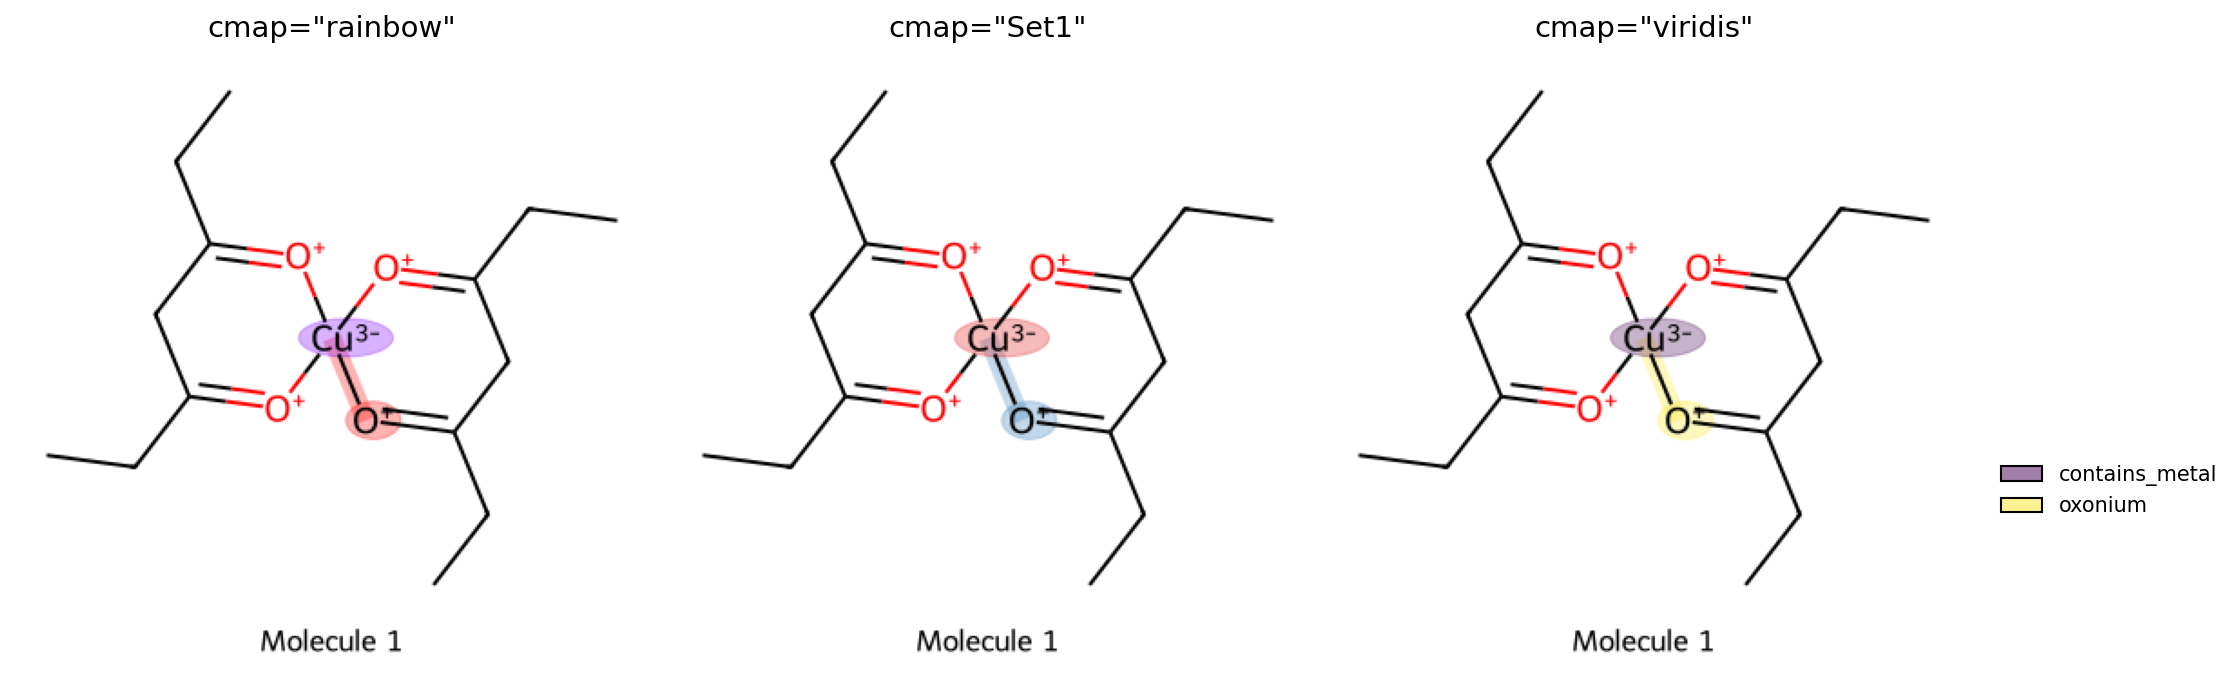
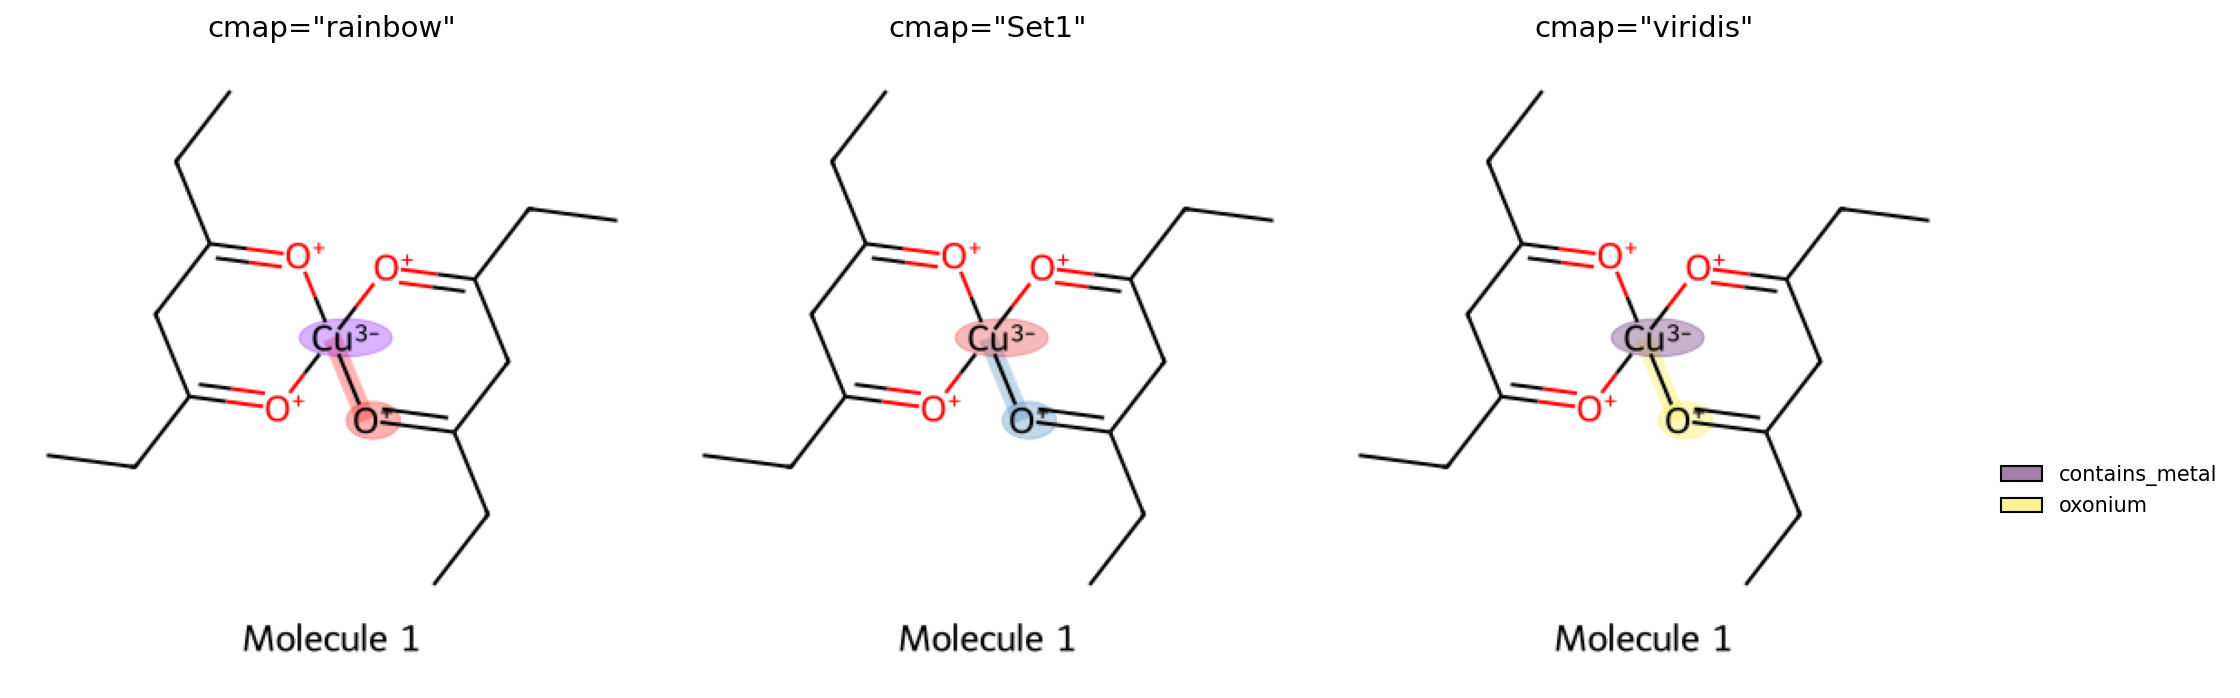
update example figures using mol font_size to use label_font_size instead

Changed region(s): [[0.6875, 0.9026, 0.7812, 0.9327], [0.4062, 0.9026, 0.5, 0.9327], [0.0938, 0.9026, 0.1875, 0.9327]]

diff --git a/docs/generate_figures.py b/docs/generate_figures.py
@@ -171,7 +171,7 @@ def generate_colored_matches():
     _, descriptions, substructs = chemFilter.filter_mols(MOLS)
 
     plotter = MolPlotter(
-        from_smi=False, mol_font_size=20, size=(350, 350), font_name=FONT
+        from_smi=False, label_font_size=20, size=(350, 350), font_name=FONT
     )
     img = plotter.render_with_colored_matches(
         MOLS[0],
@@ -298,7 +298,7 @@ def generate_cmap_comparison():
 
     for ax, cmap_name in zip(axes, cmaps):
         plotter = MolPlotter(
-            from_smi=False, mol_font_size=20, size=(350, 350), font_name=FONT
+            from_smi=False, label_font_size=20, size=(350, 350), font_name=FONT
         )
         img = plotter.render_with_colored_matches(
             MOLS[0],

diff --git a/docs/usage/visualization.md b/docs/usage/visualization.md
@@ -128,7 +128,7 @@ chemFilter = RdkitFilters(filter_type="NIH")
 filter_names, descriptions, substructs = chemFilter.filter_mols(mols)
 
 plotter = MolPlotter(
-    from_smi=False, mol_font_size=20, size=(350, 350), font_name="Telex-Regular"
+    from_smi=False, label_font_size=20, size=(350, 350), font_name="Telex-Regular"
 )
 img = plotter.render_with_colored_matches(
     mols[0],
